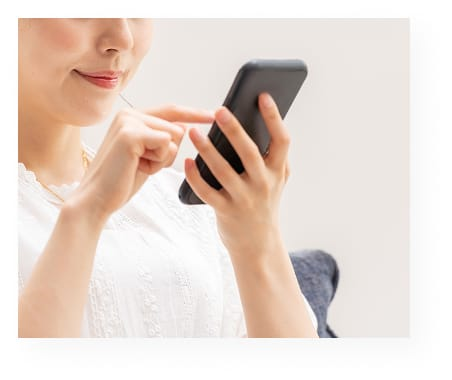
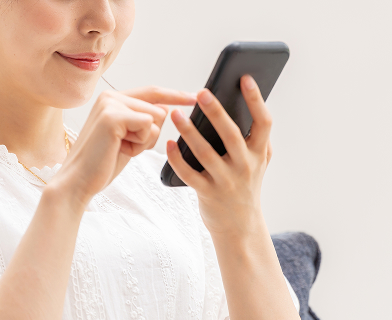
features sectionのコーディングひとまず完了

diff --git a/index.html b/index.html
@@ -1,5 +1,5 @@
 <!DOCTYPE html>
-<html lang="jp">
+<html lang="ja">
 <head>
     <meta charset="UTF-8">
     <meta name="viewport" content="width=device-width, initial-scale=1.0">
@@ -14,7 +14,7 @@
 		<main>
 			<section class="p-fv">
 				<div class="container">
-					<div class="p-f__logo">
+					<div class="p-fv__logo">
 						<img src="./img/logo.svg" alt="パーソナルジムKALOSIUのロゴ">
 					</div>
 					
@@ -59,8 +59,90 @@
 				</div>
 			</section>
 			
+			<!-- features -->
 			<section class="p-features">
-				
+				<div class="p-features__container">
+					<div class="c-section-title">
+						<p class="c-section-title__en">
+							Features
+						</p>
+						<h2 class="c-section-title__ja">
+							KALOSIUの特徴
+						</h2>
+					</div>
+
+					<ul class="p-features__list">
+						<li class="p-features__item">
+							<div class="p-features__content">
+								<p class="p-features__num" aria-hidden="true">
+									01
+								</p>
+								<h3 class="p-features__title">
+									習慣化重視
+								</h3>
+								<p class="p-features__text">
+									1日1歩の変化を<br>大切に
+								</p>
+							</div>
+							<div class="p-features__media">
+								<img class="p-features__img" src="./img/feature1.jpg" alt="">
+							</div>
+						</li>
+	
+						<li class="p-features__item p-features__item--reverse">
+							<div class="p-features__content">
+								<p class="p-features__num" aria-hidden="true">
+									02
+								</p>
+								<h3 class="p-features__title">
+									完全個室
+								</h3>
+								<p class="p-features__text">
+									人目を気にせず<br>集中できる
+								</p>
+							</div>
+							<div class="p-features__media">
+								<img class="p-features__img" src="./img/feature2.jpg" alt="">
+							</div>
+						</li>
+	
+						<li class="p-features__item">
+							<div class="p-features__content">
+								<p class="p-features__num" aria-hidden="true">
+									03
+								</p>
+								<h3 class="p-features__title">
+									管理栄養士の<br>
+									サポート
+								</h3>
+								<p class="p-features__text">
+									LINEで食事相談OK
+								</p>
+							</div>
+							<div class="p-features__media">
+								<img class="p-features__img" src="./img/feature3.jpg" alt="">
+							</div>
+						</li>
+	
+						<li class="p-features__item p-features__item--reverse">
+							<div class="p-features__content">
+								<p class="p-features__num" aria-hidden="true">
+									04
+								</p>
+								<h3 class="p-features__title">
+									女性トレーナー<br>
+									在籍
+								</h3>
+								<p class="p-features__text">
+									悩みに寄り添う<br>丁寧なサポート
+								</p>
+							</div>
+							<div class="p-features__media">
+								<img class="p-features__img" src="./img/feature4.jpg" alt="">
+							</div>
+						</li>
+					</ul>
+				</div>				
 			</section>
 			
 			<section class="p-whoitfits">

diff --git a/style.css b/style.css
@@ -60,13 +60,20 @@ body{
     letter-spacing: var(--ls-base);
 
 }
+
+body p{
+    color: #333333;
+}
+
 .has-fixed-bg {
     background-image: url(img/background.jpg);
     background-size: cover;
     background-position: center;
     background-repeat: no-repeat;
     width: 100%;
-    height: 100vh;
+    min-height: 100vh;
+    background-attachment: fixed; 
+    
 }
 
 .l-wrapper {
@@ -132,6 +139,23 @@ body{
     border-color: transparent transparent transparent #fff; /* 右向き */
   }
 
+  .c-section-title{
+    margin-bottom: 24px;
+
+  }
+  .c-section-title__en{
+    text-align: center;
+    font-size: var(--fs-point);
+    font-family: var(--font-en);
+    color: var(--color-heading-en);
+  }
+  .c-section-title__ja{
+    text-align: center;
+    font-size: var(--fs-h2);
+    color: var(--color-heading-ja);
+    font-weight: var(--fw-midium);
+  }
+
 /* =========================================
    FV
 ========================================= */
@@ -146,7 +170,7 @@ body{
 
 }
 
-.p-f__logo{
+.p-fv__logo{
     padding: 24px 0 56px 0;
     width:80px ;
 
@@ -166,7 +190,7 @@ body{
 .p-fv__subtitle-highlight {
     font-size: 32px;
     position: relative;
-    display: inline-block; /* 下線の幅を文字に合わせる */
+    display: inline-block;
     z-index: 0;
 
 }
@@ -236,27 +260,116 @@ body{
 /* ============================================== 
 sections
 ============================================== */
+/* features */
 .p-features {
+    background-color: #FFFCF3;
+    padding: 40px 0;
 
 }
+.p-features__container{
+
+}
+
+.p-features__list{
+    display: flex;
+    flex-direction: column;
+    gap: 24px;
+
+}
+.p-features__item{
+    display: flex;
+    flex-direction: row;
+    align-items: flex-start;
+    justify-content: space-between;
+    gap: 16px;
+    padding-left: 20px;
+
+}
+
+.p-features__item--reverse{
+    display: flex;
+    flex-direction: row-reverse;
+    padding:0 20px 0 0;
+    
+
+}
+
+.p-features__content{
+
+}
+
+.p-features__num{
+    font-family: var(--font-en);
+    color: #F1F1F1;
+    font-size: 64px;
+    font-weight: var(--fw-light);
+    font-style: italic;
+    margin-bottom: -24px;
+
+}
+
+.p-features__title{
+    color: var(--color-heading-ja);
+    margin-bottom: 8px;
+
+}
+
+.p-features__text{
+
+}
+
+.p-features__media{
+    width: 196px;
+    height: 160px;
+    border-radius: 80px 0 0 80px;
+    overflow: hidden; 
+    box-shadow: 0 8px 16px rgba(124, 124, 124, 0.1);
+
+}
+
+.p-features__item--reverse .p-features__media{
+    border-radius: 0 80px 80px 0;
+  }
+  
+.p-features__img{
+    width: 100%;
+    height: 100%;
+    object-fit: cover;
+    display: block;     
+
+}
+
+/* who it fits */
 .p-whoitfits {
 
 }
+
+/* flow */
 .p-flow {
 
 }
+
+/* trainer */
 .p-trainer {
 
 }
+
+/* voice */
 .p-voice {
 
 }
+
+/* faq */
 .p-faq {
 
 }
+
+/* offer */
 .p-offer {
 
 }
+
+/* access */
 .p-access {
 
 }
